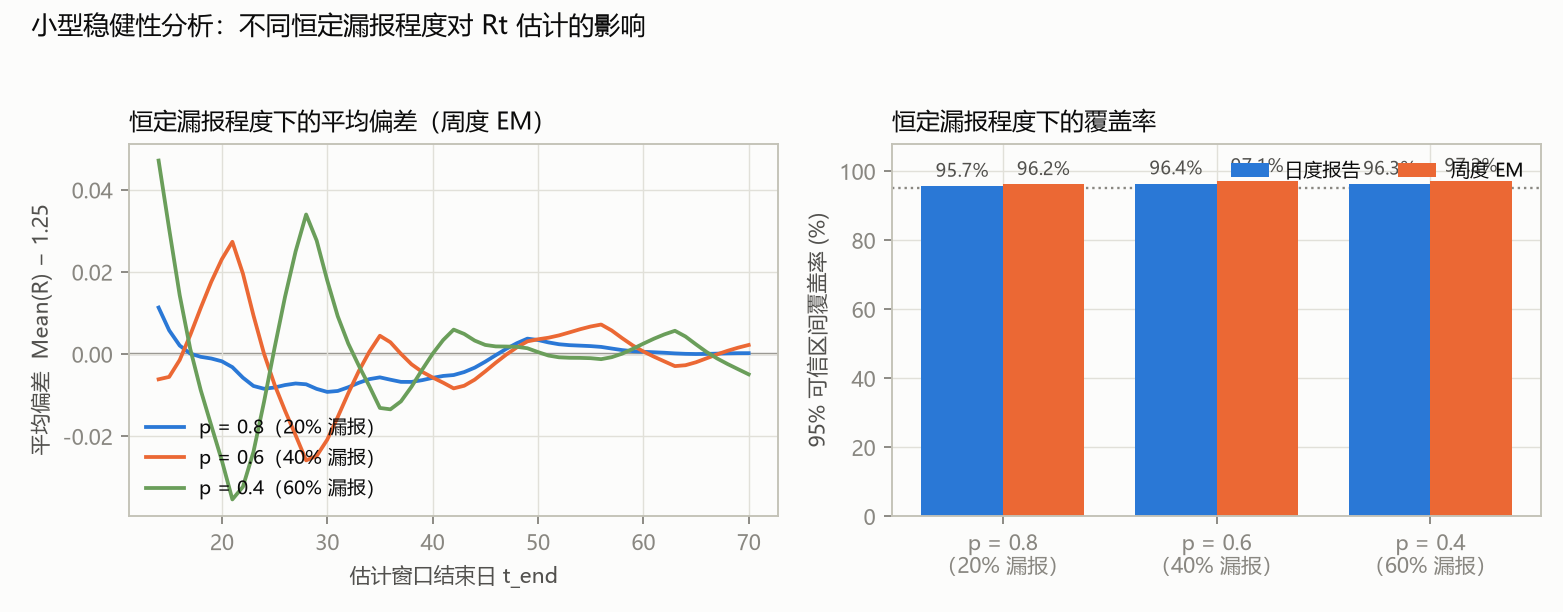
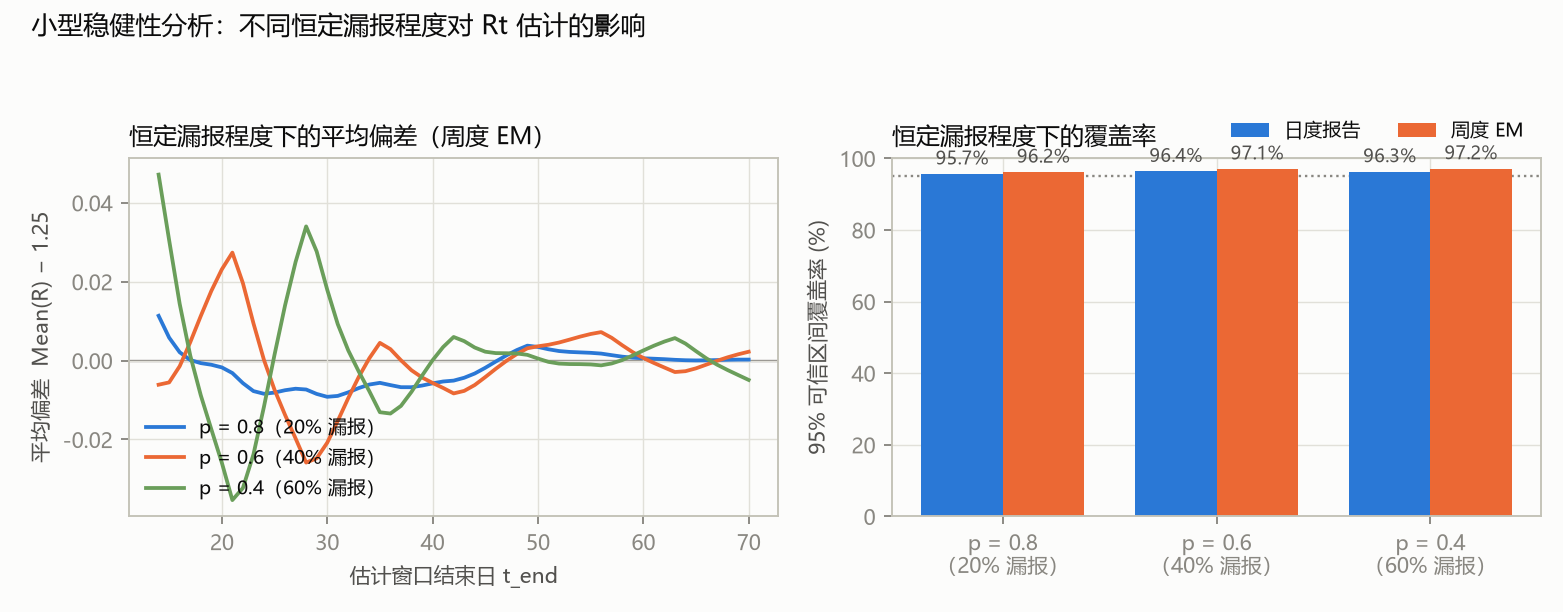
fix constant-p coverage legend: place outside axes, aligned with title row

diff --git a/experiments/analysis/robustness_constant_p.py b/experiments/analysis/robustness_constant_p.py
@@ -161,10 +161,10 @@ def _make_figure(df, path):
     ax2.set_xticks(x)
     ax2.set_xticklabels([f"p = {p:g}\n（{round((1 - p) * 100)}% 漏报）"
                          for p in P_LEVELS])
-    ax2.set_ylim(0, 108)
+    ax2.set_ylim(0, 100)
     ax2.set_ylabel("95% 可信区间覆盖率 (%)")
     ax2.set_title("恒定漏报程度下的覆盖率", loc="left")
-    ax2.legend(fontsize=8, loc="upper right", ncol=2)
+    ax2.legend(fontsize=8, ncol=2, loc="lower right", bbox_to_anchor=(1.0, 1.0))
 
     fig.suptitle("小型稳健性分析：不同恒定漏报程度对 Rt 估计的影响", fontsize=11,
                  x=0.02, ha="left", color=INK)
